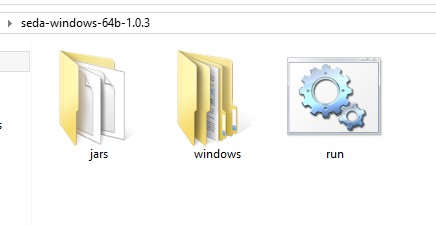
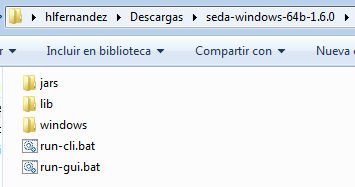
Adds new installation instructions

diff --git a/seda-docs/source/conf.py b/seda-docs/source/conf.py
@@ -56,7 +56,7 @@ author = u'Jorge Vieira, Cristina Vieira, Noé Vázquez, Miguel Reboiro-Jato and
 # The short X.Y version.
 version = u'1.6'
 # The full version, including alpha/beta/rc tags.
-release = u'1.6.0-SNAPSHOT'
+release = u'1.6.0'
 
 # The language for content autogenerated by Sphinx. Refer to documentation
 # for a list of supported languages.

diff --git a/seda-docs/source/installation-and-configuration.rst b/seda-docs/source/installation-and-configuration.rst
@@ -23,12 +23,14 @@ Linux
 Portable version
 ^^^^^^^^^^^^^^^^
 
-Download and uncompress the 64 bit distribution for Linux (*seda-linux-64b-X.Y.Z.tar.gz*). The following files will appear.
+Download and decompress the 64 bit distribution for Linux (*seda-linux-64b-X.Y.Z.tar.gz*) that includes both the GUI and CLI applications. The following files will appear.
 
 .. figure:: images/installation/linux/1.png
    :align: center
 
-Now, make double click on the *run.sh* file (or execute ```./run.sh```) in order to run SEDA.
+Now, make double click on the *run-gui.sh* file (or execute ``./run-gui.sh``) in order to run the SEDA GUI or execute ``./run-cli.sh`` in a terminal to run the SEDA CLI.
+
+The man pages are available executing ``man ./seda-cli.1.gz``.
 
 See the :ref:`Linux Docker<linux_docker>` section to see how to install Docker in Linux and be able to use the operations requiring external software dependencies.
 
@@ -38,14 +40,61 @@ See the :ref:`Linux Docker<linux_docker>` section to see how to install Docker i
 Dockerized version
 ^^^^^^^^^^^^^^^^^^
 
-A dockerized version of SEDA for Linux systems is available at https://hub.docker.com/r/pegi3s/seda/. Using this Docker image, SEDA can be run with the following commands:
+A Dockerized version of SEDA for Linux systems is available at https://hub.docker.com/r/pegi3s/seda/. Using this Docker image, SEDA can be run with the following commands:
 
 .. code-block:: console
 
  xhost +
- docker run --rm -ti -e USERID=$UID -e USER=$USER -e DISPLAY=$DISPLAY -v /var/db:/var/db:Z -v /tmp/.X11-unix:/tmp/.X11-unix -v $HOME/.Xauthority:/home/developer/.Xauthority -v "/your/data/dir:/data" -v /var/run/docker.sock:/var/run/docker.sock -v /tmp:/tmp pegi3s/seda
+ docker run --rm -ti \
+   -e USERID=$UID -e USER=$USER -e DISPLAY=$DISPLAY \
+   -v /var/db:/var/db:Z \
+   -v /tmp/.X11-unix:/tmp/.X11-unix \
+   -v $HOME/.Xauthority:/home/developer/.Xauthority \
+   -v "/your/data/dir:/data" \
+   -v /var/run/docker.sock:/var/run/docker.sock \
+   -v /tmp:/tmp \
+      pegi3s/seda
 
-Where ```/your/data/dir``` must be replaced with the data directory that SEDA will have access to and that will be available as ```/data```.
+Where ``/your/data/dir`` must be replaced with the data directory that SEDA will have access to and that will be available as ``/data``.
+
+Debian (APT, dpkg)
+^^^^^^^^^^^^^^^^^^
+
+Download *.deb* file for Debian-based systems (*seda-cli_X.Y.Z_all.deb* for the CLI or *seda-gui_X.Y.Z_all.deb* for the GUI). Then run:
+
+.. code-block:: console
+
+ sudo apt install ./seda-cli_X.Y.Z_all.deb # or ./seda-gui_X.Y.Z_all.deb
+
+The packages can be uninstalled with ``apt remove seda-cli`` or ``apt remove seda-gui``.
+
+When the SEDA CLI is installed this way, the man pages are automatically available via ``man seda-cli``.
+
+Fedora/CentOS (rpm)
+^^^^^^^^^^^^^^^^^^^
+
+Download *.rpm* file for RPM-based systems (*seda-cli-X.Y.Z-1.noarch.rpm* for the CLI or *seda-gui-X.Y.Z-1.noarch.rpm* for the GUI). Then run:
+
+.. code-block:: console
+
+ sudo rpm -i ./seda-cli-X.Y.Z-1.noarch.rpm # or ./seda-gui-X.Y.Z-1.noarch.rpm
+
+The packages can be uninstalled with ``rpm -e seda-cli`` or ``rpm -e seda-gui``.
+
+When the SEDA CLI is installed this way, the man pages are automatically available via ``man seda-cli``.
+
+Snap
+^^^^^^^^^^^^^^^^^^^
+
+Download  *.snap* file (*seda-cli_X.Y.Z_amd64.snap* for the CLI or *seda-cli_X.Y.Z_amd64.snap* for the GUI). Then run:
+
+.. code-block:: console
+
+ sudo snap install --dangerous --classic ./seda-cli_X.Y.Z_amd64.snap # or seda-cli_X.Y.Z_amd64.snap
+
+The packages can be uninstalled with ``snap remove seda-cli`` or ``snap remove seda-gui``.
+
+When the SEDA CLI is installed this way, the man pages are available via ``man /snap/seda-cli/x1/docs/man/seda-cli.1.gz``. To make them available via ``man seda-cli``, a symbolic link may be created with ``ln -s /snap/seda-cli/x1/docs/man/seda-cli.1.gz /usr/share/man/man1/seda-cli.1``.
 
 Windows
 -------
@@ -53,14 +102,19 @@ Windows
 Portable version
 ^^^^^^^^^^^^^^^^
 
-Download and uncompress the 64 bit distribution for Windows (*seda-windows-64b-X.Y.Z.zip*). The following files will appear.
+Download and decompress the 64 bit distribution for Windows (*seda-windows-64b-X.Y.Z.zip*) that includes both the GUI and CLI applications. The following files will appear.
 
 .. figure:: images/installation/windows/portable/1.png
    :align: center
 
-Now, make double click on the *run.bat* file in order to run SEDA. In some cases, a message like the one below may appear. If so, just click on *More info* and then you will be able to click the *Run anyway* button to continue opening SEDA.
+Make double click on the *run-gui.bat* file in order to run the SEDA GUI. In some cases, a message like the one below may appear. If so, just click on *More info* and then you will be able to click the *Run anyway* button to continue opening SEDA.
 
 .. figure:: images/installation/windows/portable/2.png
+   :align: center
+
+Alternatively, open a terminal (``cmd.exe``) and execute the ``run-cli.bat`` file in order to run the SEDA CLI.
+
+.. figure:: images/installation/windows/portable/3.png
    :align: center
 
 See the :ref:`Windows Docker<windows_docker>` section to see how to install Docker for Windows and be able to use the operations requiring external software dependencies.
@@ -68,15 +122,15 @@ See the :ref:`Windows Docker<windows_docker>` section to see how to install Dock
 .. Note::
    The first time an operation requiring external software dependencies is opened and Docker is available, the waiting cursor appears and it may seem that the GUI is frozen. This is normal because SEDA should download the Docker image from the Docker Hub registry and this may take a while depending on the speed of your internet connection.
 
-Executable installer
-^^^^^^^^^^^^^^^^^^^^
+Executable installer (GUI)
+^^^^^^^^^^^^^^^^^^^^^^^^^^
 
-First, make double click on the *seda-windows-64b-X.Y.Z.exe* file in order to run the SEDA installer. In some cases, a message like the one below may appear. If so, just click on *More info* and then you will be able to click the *Run anyway* button to continue the SEDA installation.
+First, make double click on the *seda-windows-64b-X.Y.Z.exe* file in order to run the SEDA GUI installer. In some cases, a message like the one below may appear. If so, just click on *More info* and then you will be able to click the *Run anyway* button to continue the SEDA installation.
 
 .. figure:: images/installation/windows/installer/1.png
    :align: center
 
-Then, you just only need to follow the installation wizard steps until the instalation is completed.
+Then, you just only need to follow the installation wizard steps until the installation is completed.
 
 .. figure:: images/installation/windows/installer/2.png
    :align: center
@@ -109,12 +163,12 @@ See the :ref:`Windows Docker<windows_docker>` section to see how to install Dock
 Mac OS
 ------
 
-Download and uncompress the Mac OS distribution (*seda-mac-X.Y.Z.zip*). The following files will appear.
+Download and decompress the Mac OS distribution (*seda-mac-X.Y.Z.zip*) that includes both the GUI and CLI applications. The following files will appear.
 
 .. figure:: images/installation/mac/1.png
    :align: center
 
-Now, make double click on the *run.command* file in order to run SEDA. In some cases, the system will prompt the following dialog saying that the application can't be opened due to the security settings.
+Now, make double click on the *run-gui.command* file in order to run SEDA GUI. In some cases, the system will prompt the following dialog saying that the application can't be opened due to the security settings.
 
 .. figure:: images/installation/mac/2.png
    :align: center
@@ -129,10 +183,12 @@ In the *General* tab, enable the *App Store and identified developers* option un
 .. figure:: images/installation/mac/4.png
    :align: center
 
-Finally, make double click again on the *run.command* file in order to run SEDA. When prompted, click the *Open* button to open SEDA.
+Finally, make double click again on the *run-gui.command* file in order to run SEDA. When prompted, click the *Open* button to open SEDA.
 
 .. figure:: images/installation/mac/5.png
    :align: center
+
+Alternatively, open a terminal and run the ``run-cli.command`` script to run the SEDA CLI.
 
 See the :ref:`Mac OS Docker<mac_docker>` section to see how to install Docker for Mac and be able to use the operations requiring external software dependencies.
 
